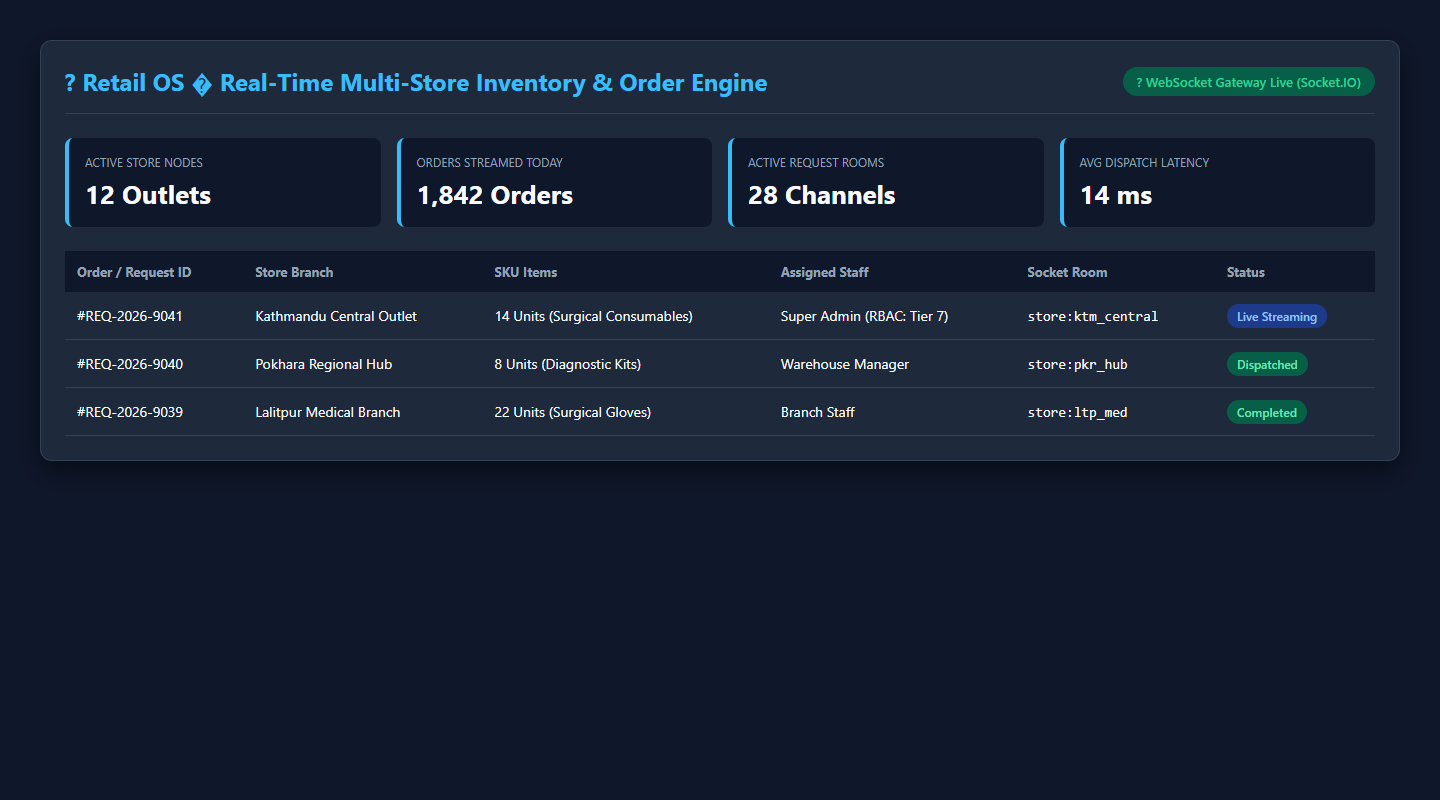
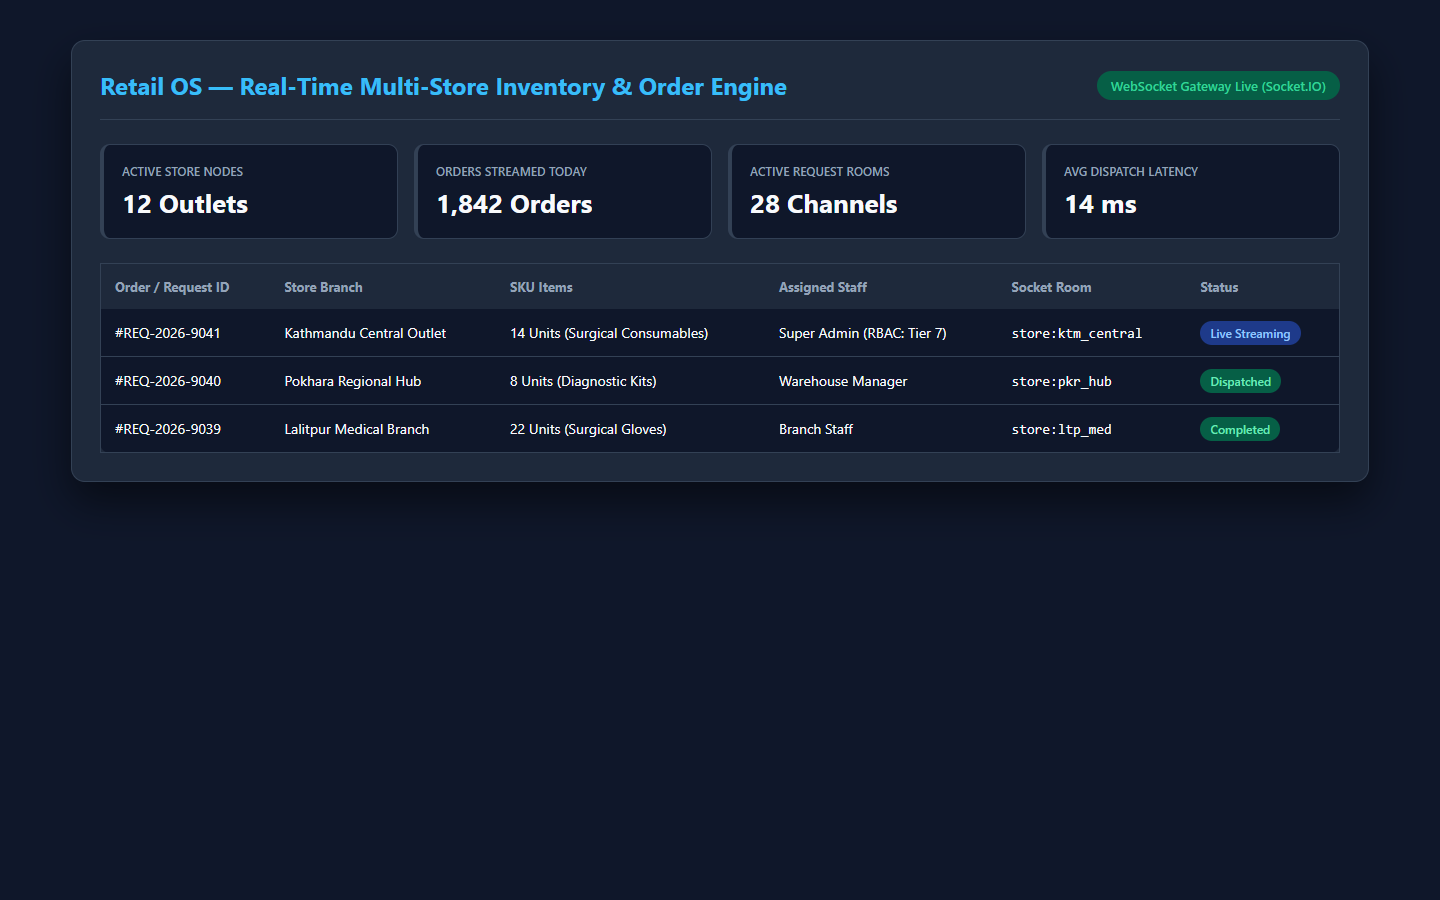
fix(docs): update verified high-resolution application screenshots and clean markdown encoding

diff --git a/README.md b/README.md
@@ -11,7 +11,7 @@
 
 ---
 
-## ?? Application Screenshot & Interface Preview
+## Application Screenshot & Interface Preview
 
 <div align="center">
   <img src="./assets/screenshot.png" alt="Application Interface Preview" width="850" style="border-radius: 8px; box-shadow: 0 4px 20px rgba(0,0,0,0.15);" />
